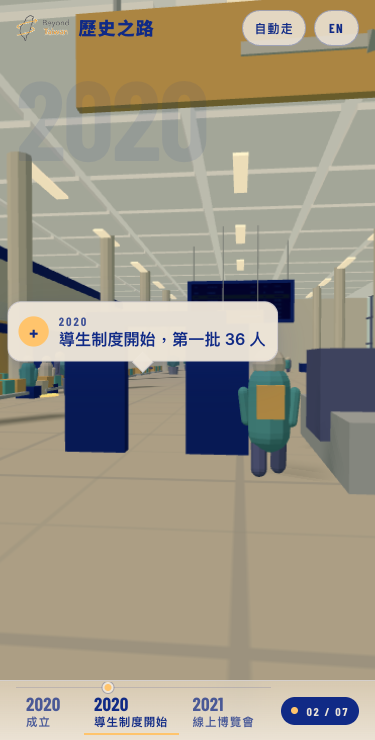
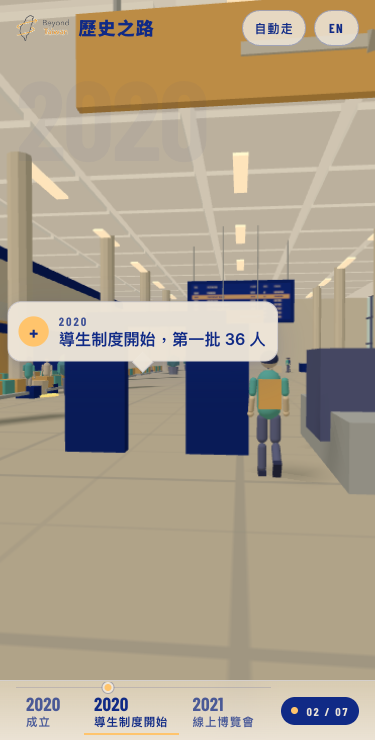
docs: 歷史之路批 5 第三輪。README 與計畫文件補人物工廠、空橋變亮、水印淡一半，重拍 page-24、25、26、27、30、32

diff --git a/README.md b/README.md
@@ -3573,6 +3573,13 @@ Paul 看完批 4 第三輪在線上的樣子，否決了 2.5D 的畫法：「飛
 - 雲：奶油白往白推、自發光、不接影；沿爬升的路放在飛機旁邊與底下；霧變薄，爬升初期機場看得到。
 - 重拍 page-24、25、26、28、32。
 
+### 同一天第三輪（Paul 再提的兩件加一件）
+
+- 人換成 `history/src/person.js` 的工廠：七頭身、頭髮、臉、短袖、手、長褲或裙、鞋，七種樣子（背包、行李箱、櫃台、地勤、坐著、裙），站走坐三種姿勢；場景裡每一個人都是它（含八種小場景）。要改人的樣子只改這一支。
+- 空橋變亮：奶油牆自發光、深藍地帶、燈板、盡頭「BT GATE A3」的牌；室內霧幾乎關掉、半球光往沙色推。有貼圖的材質底色改白（原本深藍底把字乘暗，看板一直糊糊的就是這個）。
+- 航廈與空橋那兩段大年份水印淡一半。
+- 重拍 page-24、25、26、27、30、32。
+
 ### 要 Paul 看一眼的幾個判斷
 
 - Three 的 SRI 走 importmap 的 `integrity` 欄位（Chrome 127、Safari 18.4、Firefox 138 起認得）。更舊的瀏覽器照樣載得到、只是不驗雜湊；不用 `modulepreload` 是因為 `check.sh` 把它當成登入後頁面的守門在數。
